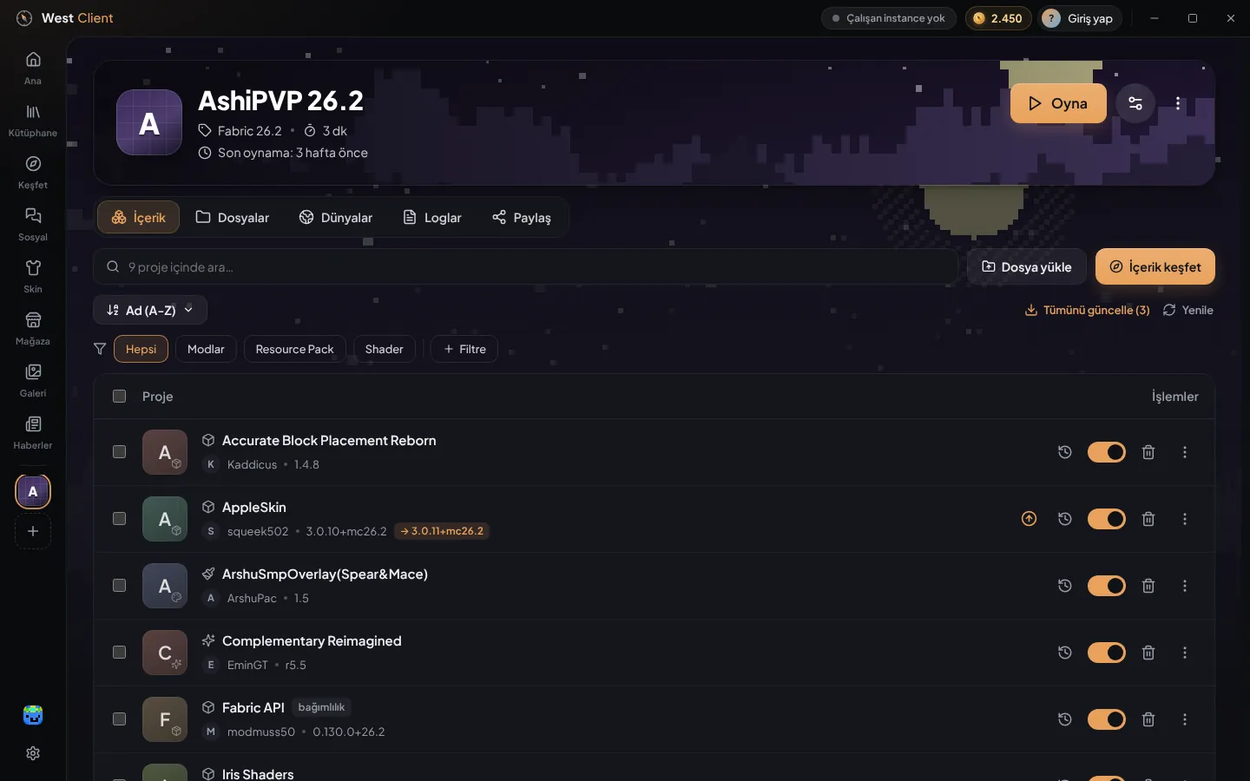
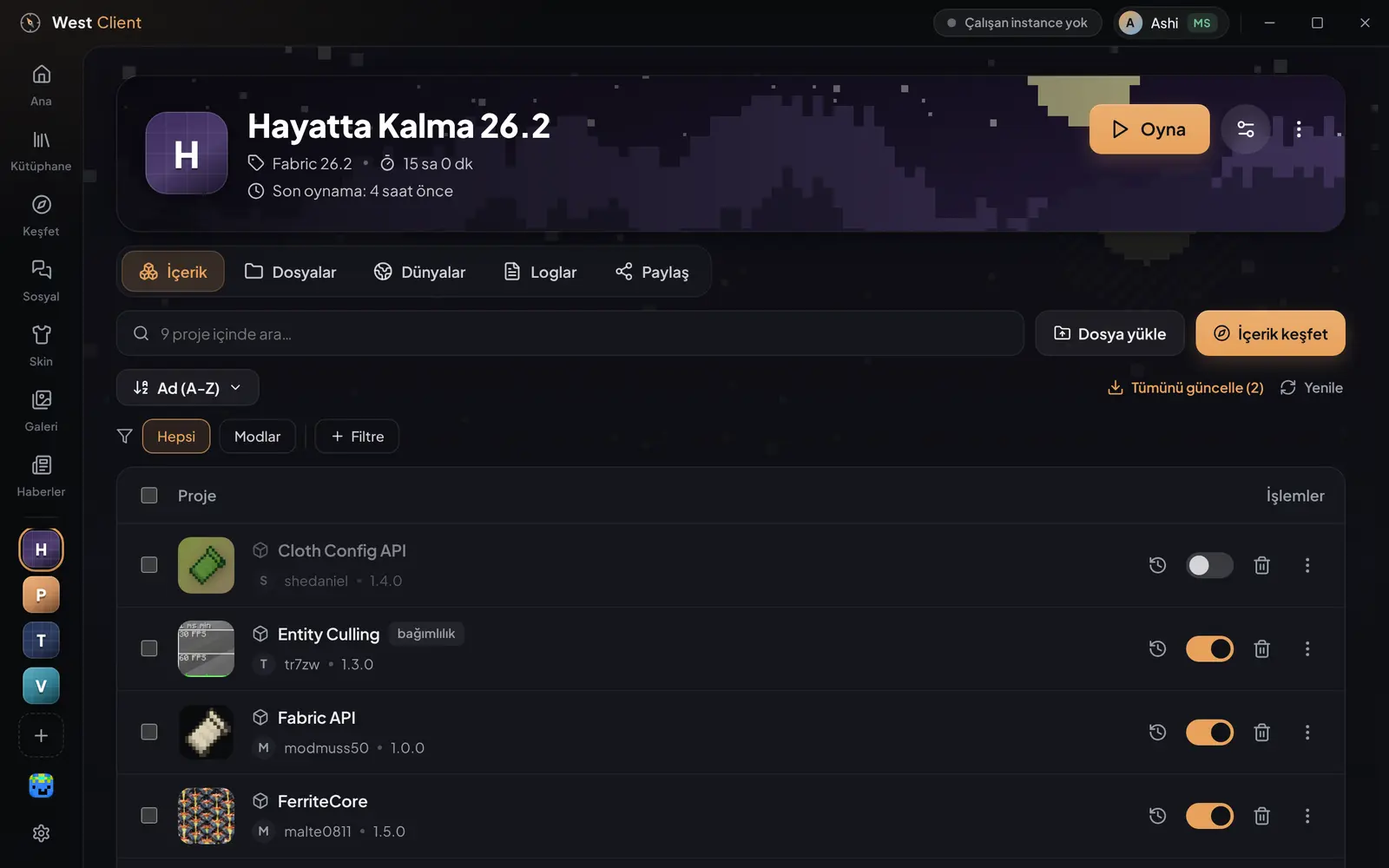
Site: gerçek özelliklerle yeniden yazıldı
- Kaldırılan özellikler (West Coin, mağaza, gardırop, lobi) ve eski ekran görüntüleri çıkarıldı
- Yeni bölümler: oyun içi Mod Merkezi, çökme koruması; güncel launcher ve oyun içi görüntüler
- Kalıp bölümler çıkarıldı: istatistik şeridi, 12 kartlık özellik ızgarası, canlı sayaç, uzun hikâye metni
- Mobilde yatay taşma düzeltildi; görüntüler tıklayınca büyür

Claude-Session: https://claude.ai/code/session_017BGwMHJgBU9zxtNajRruqT

diff --git a/site/index.html b/site/index.html
@@ -34,11 +34,10 @@
   <div class="wrap">
     <a class="brand" href="#top"><img src="assets/icon-256.png" alt=""> West <b>Client</b></a>
     <nav class="nav-links" id="navLinks">
-      <a href="#ozellikler">Özellikler</a>
+      <a href="#mod-merkezi">Mod Merkezi</a>
+      <a href="#kesfet">Keşfet</a>
       <a href="#ashi">Ashi</a>
-      <a href="#sosyal">Sosyal</a>
-      <a href="#ekranlar">Ekranlar</a>
-      <a href="#hikaye">Hikâye</a>
+      <a href="#ozellikler">Özellikler</a>
       <a href="#guncellemeler">Güncellemeler</a>
       <a href="#sss">SSS</a>
       <a href="https://github.com/ashistan5200-png/West-Launcher" target="_blank" rel="noopener">GitHub</a>
@@ -63,10 +62,10 @@
       <p class="lead">West Client; modlarını, paketlerini, dünyalarını ve arkadaşlarını tek, hızlı ve güzel bir yerde toplayan ücretsiz Minecraft launcher'ı. Çöken bir paketin suçlusunu bile senin yerine bulur.</p>
       <div class="hero-cta">
         <a class="btn btn-primary" id="heroDl" href="#indir"><svg width="20" height="20"><use href="#i-dl"/></svg> <span id="heroDlText">Ücretsiz indir</span></a>
-        <a class="btn btn-ghost" href="#ozellikler">Neler yapabilir? <svg width="18" height="18"><use href="#i-arrow"/></svg></a>
+        <a class="btn btn-ghost" href="#mod-merkezi">Neler yapabilir? <svg width="18" height="18"><use href="#i-arrow"/></svg></a>
       </div>
       <div class="hero-meta">
-        <span>✦ Tamamen ücretsiz</span><span>✦ Açık kaynak</span><span>✦ Windows · macOS · Linux</span><span>✦ Türkçe</span>
+        <span>Ücretsiz ve reklamsız</span><span>Açık kaynak</span><span>Windows · macOS · Linux</span><span>Türkçe, English, Deutsch</span>
       </div>
     </div>
     <div class="scroll-hint" aria-hidden="true"></div>
@@ -78,34 +77,35 @@
       <div class="glow-ring"></div>
       <img src="assets/shots/home.webp" alt="West Client ana sayfası" fetchpriority="high">
     </div>
-    <div class="stats">
-      <div class="stat reveal"><b data-count="100" data-suffix="%">0</b><span>ücretsiz, reklamsız</span></div>
-      <div class="stat reveal" style="--d:.08s"><b data-count="4">0</b><span>mod yükleyici</span></div>
-      <div class="stat reveal" style="--d:.16s"><b data-count="100" data-suffix="B+">0</b><span>Modrinth içeriği</span></div>
-      <div class="stat reveal" style="--d:.24s"><b data-count="3">0</b><span>işletim sistemi</span></div>
-    </div>
   </div>
 
-  <!-- ───────── Özellikler ───────── -->
-  <section class="section" id="ozellikler">
-    <div class="wrap center">
-      <span class="eyebrow reveal">Özellikler</span>
-      <h2 class="title reveal">İhtiyacın olan her şey. <span class="grad">Fazlası da.</span></h2>
-      <p class="sub reveal">Bir launcher'dan beklediğin her şeyi yapar; sonra çok daha fazlasını. Kurulumdan oyuna, moddan arkadaşlarına kadar.</p>
-      <div class="features" style="text-align:left">
-        <div class="feature reveal"><div class="ico"><svg width="26" height="26" viewBox="0 0 24 24" fill="none" stroke="currentColor" stroke-width="2" stroke-linecap="round" stroke-linejoin="round"><rect x="3" y="3" width="7" height="7" rx="1.5"/><rect x="14" y="3" width="7" height="7" rx="1.5"/><rect x="3" y="14" width="7" height="7" rx="1.5"/><rect x="14" y="14" width="7" height="7" rx="1.5"/></svg></div><h3>İzole instance'lar</h3><p>Her paket kendi klasöründe: Vanilla, Fabric, NeoForge, Forge ve Quilt. Klonla, şablon yap, kendi kapağını ve simgesini koy.</p></div>
-        <div class="feature reveal" style="--d:.06s"><div class="ico blue"><svg width="26" height="26" viewBox="0 0 24 24" fill="none" stroke="currentColor" stroke-width="2" stroke-linecap="round" stroke-linejoin="round"><circle cx="12" cy="12" r="10"/><path d="m16.2 7.8-2.1 6.3-6.3 2.1 2.1-6.3z"/></svg></div><h3>Keşfet: Modrinth</h3><p>On binlerce mod, modpack, shader ve resource pack. Sürüme, yükleyiciye, istemci/sunucuya ve kategoriye göre süz; galeriye ve sürüm notlarına bak.</p></div>
-        <div class="feature reveal" style="--d:.12s"><div class="ico pink"><svg width="26" height="26" viewBox="0 0 24 24" fill="none" stroke="currentColor" stroke-width="2" stroke-linecap="round" stroke-linejoin="round"><circle cx="11" cy="11" r="7"/><path d="m21 21-4.3-4.3M11 8v3l2 2"/></svg></div><h3>Ashi: suçlu avcısı</h3><p>Oyun çöküyor ama hangi mod? Ashi oyunu kendisi açıp kapatarak birkaç turda suçluyu bulur. Kütüphanelere dokunmaz.</p></div>
-        <div class="feature reveal"><div class="ico green"><svg width="26" height="26" viewBox="0 0 24 24" fill="none" stroke="currentColor" stroke-width="2" stroke-linecap="round" stroke-linejoin="round"><path d="M21 12a9 9 0 1 1-3-6.7L21 8"/><path d="M21 3v5h-5"/></svg></div><h3>Tek tıkla güncelle</h3><p>Yüklü modlarını Modrinth'te tanır, güncellemeleri gösterir. "Tümünü güncelle" eski dosyaları önce yedekler.</p></div>
-        <div class="feature reveal" style="--d:.06s"><div class="ico"><svg width="26" height="26" viewBox="0 0 24 24" fill="none" stroke="currentColor" stroke-width="2" stroke-linecap="round" stroke-linejoin="round"><path d="M17 21v-2a4 4 0 0 0-4-4H5a4 4 0 0 0-4 4v2"/><circle cx="9" cy="7" r="4"/><path d="M23 21v-2a4 4 0 0 0-3-3.87M16 3.13a4 4 0 0 1 0 7.75"/></svg></div><h3>West sosyal</h3><p>Gönderi, fotoğraf, anket, hikâye, mesaj, takip. Minecraft arkadaşlarınla West Client'ın içinde buluş.</p></div>
-        <div class="feature reveal" style="--d:.12s"><div class="ico blue"><svg width="26" height="26" viewBox="0 0 24 24" fill="none" stroke="currentColor" stroke-width="2" stroke-linecap="round" stroke-linejoin="round"><path d="M20.4 14.5 16 10 4 20"/><rect x="2" y="3" width="20" height="18" rx="3"/><circle cx="8.5" cy="8.5" r="1.5"/></svg></div><h3>Skin ve galeri</h3><p>3D skin önizleme, skin arşivi, hesabına tek tıkla uygulama. Ekran görüntülerini düzenle, kırp, paylaş.</p></div>
-        <div class="feature reveal"><div class="ico green"><svg width="26" height="26" viewBox="0 0 24 24" fill="none" stroke="currentColor" stroke-width="2" stroke-linecap="round" stroke-linejoin="round"><path d="M4 22h14a2 2 0 0 0 2-2V7.5L14.5 2H6a2 2 0 0 0-2 2v4"/><path d="M14 2v6h6M2 15h10M9 18l3-3-3-3"/></svg></div><h3>Her yerden aktar</h3><p>Modrinth App, CurseForge, Prism, MultiMC ve resmi launcher'daki paketlerini bulur, orijinallerine dokunmadan taşır.</p></div>
-        <div class="feature reveal" style="--d:.06s"><div class="ico"><svg width="26" height="26" viewBox="0 0 24 24" fill="none" stroke="currentColor" stroke-width="2" stroke-linecap="round" stroke-linejoin="round"><path d="M13 2 3 14h9l-1 8 10-12h-9l1-8z"/></svg></div><h3>Otomatik Java + JVM</h3><p>Doğru Java sürümünü kendisi indirir; belleği ve çöp toplayıcıyı donanımına ve mod sayına göre ayarlar.</p></div>
-        <div class="feature reveal" style="--d:.12s"><div class="ico pink"><svg width="26" height="26" viewBox="0 0 24 24" fill="none" stroke="currentColor" stroke-width="2" stroke-linecap="round" stroke-linejoin="round"><path d="M4 11a9 9 0 0 1 9 9M4 4a16 16 0 0 1 16 16"/><circle cx="5" cy="19" r="1"/></svg></div><h3>Haberler</h3><p>Minecraft sürüm notları, popüler mod güncellemeleri ve her sürümde gelen yeni blok dokuları ile sesleri; indirilebilir.</p></div>
-        <div class="feature reveal"><div class="ico blue"><svg width="26" height="26" viewBox="0 0 24 24" fill="none" stroke="currentColor" stroke-width="2" stroke-linecap="round" stroke-linejoin="round"><path d="M12 22s8-4 8-10V5l-8-3-8 3v7c0 6 8 10 8 10Z"/><path d="m9 12 2 2 4-4"/></svg></div><h3>Güvenli giriş</h3><p>Microsoft şifren yalnızca Microsoft'un kendi sayfasına girilir. İstersen launcher'ı şifreyle kilitle.</p></div>
-        <div class="feature reveal" style="--d:.06s"><div class="ico"><svg width="26" height="26" viewBox="0 0 24 24" fill="none" stroke="currentColor" stroke-width="2" stroke-linecap="round" stroke-linejoin="round"><path d="M21 15a2 2 0 0 1-2 2H7l-4 4V5a2 2 0 0 1 2-2h14a2 2 0 0 1 2 2z"/></svg></div><h3>Discord'da göster</h3><p>Arkadaşların hangi paketi, hangi sürümde ve ne kadar süredir oynadığını Discord profilinde görür.</p></div>
-        <div class="feature reveal" style="--d:.12s"><div class="ico green"><svg width="26" height="26" viewBox="0 0 24 24" fill="none" stroke="currentColor" stroke-width="2" stroke-linecap="round" stroke-linejoin="round"><path d="M3 12a9 9 0 0 1 15-6.7L21 8M21 3v5h-5M21 12a9 9 0 0 1-15 6.7L3 16M3 21v-5h5"/></svg></div><h3>Kendini günceller</h3><p>Yeni sürüm çıkınca haber verir, arka planda indirir, SHA-256 ile doğrular ve tek tıkla kurar.</p></div>
-      </div>
+  <!-- ───────── Mod Merkezi (oyun içi) ───────── -->
+  <section class="wrap spot" id="mod-merkezi">
+    <div class="spot-text reveal left">
+      <span class="eyebrow">Oyun içi Mod Merkezi · H</span>
+      <h2 class="title">Modları oyundan çıkmadan değiştir.</h2>
+      <p class="sub">Oyundayken H'ye bas: kurulu modları, kaynak paketlerini ve shader'ları aç-kapat, sil, güncelle; Modrinth'ten yenisini kur. Kaynak paketi, shader ve veri paketi anında uygulanır.</p>
+      <ul class="spot-list">
+        <li>Mod değişince oyun kapanmaz: yeni düzen arka planda açılır, hazır olunca aynı dünyaya ya da sunucuya geçersin</li>
+        <li>Yeni düzen çökerse oyunun açık kalır; değişiklik "açılamadı" diye işaretlenir ve suçlu mod adıyla gösterilir</li>
+        <li>Bir modu kapatınca ona bağlı olanları, açınca gerekenleri sorar</li>
+        <li>Her değişiklik geri alınabilir; .jar ve .zip dosyalarını pencereye sürükleyip bırakabilirsin</li>
+      </ul>
+    </div>
+    <div class="spot-img reveal right">
+      <div class="frame"><img src="assets/shots/hub.webp" alt="Mod Merkezi: kurulu içerik" loading="lazy"></div>
+      <div class="frame small"><img src="assets/shots/handoff.webp" alt="Değişiklikleri oyunu kapatmadan uygulama" loading="lazy"></div>
+    </div>
+  </section>
+
+  <section class="wrap spot flip blue">
+    <div class="spot-text reveal right">
+      <span class="eyebrow">Çökme koruması</span>
+      <h2 class="title">Bozuk bir mod oyununu bozmaz.</h2>
+      <p class="sub">Yeni mod düzeni açılamazsa West Client hangi modun sorun çıkardığını söyler, o modu kendiliğinden kapatır ve oyununu olduğu gibi bırakır. Oyunu kapatıp açsan da çökmez; karar senindir: geri al ya da tekrar dene.</p>
+    </div>
+    <div class="spot-img reveal left">
+      <div class="frame"><img src="assets/shots/protect.webp" alt="Açılamayan değişiklik ve sebebi" loading="lazy"></div>
     </div>
   </section>
 
@@ -114,7 +114,7 @@
     <div class="spot-text reveal left">
       <span class="eyebrow">Keşfet</span>
       <h2 class="title">Aradığın mod bir tık uzakta.</h2>
-      <p class="sub">Modrinth'teki içeriğin tamamı West Client'ın içinde. Bir moda tıkla; ne işe yaradığını, ekran görüntülerini ve her sürümde neyin değiştiğini oku.</p>
+      <p class="sub">Modrinth'teki içeriğin tamamı West Client'ın içinde; launcher'da da, oyunun içinde de. Bir moda tıkla; ne işe yaradığını, ekran görüntülerini ve her sürümde neyin değiştiğini oku.</p>
       <ul class="spot-list">
         <li>Minecraft sürümü, yükleyici ve kategoriye göre süzme</li>
         <li>"Yalnız istemci", "Yalnız sunucu", "İkisinde de" ayrımı</li>
@@ -125,7 +125,7 @@
     </div>
     <div class="spot-img reveal right">
       <div class="frame"><img src="assets/shots/browse.webp" alt="Keşfet sayfası" loading="lazy"></div>
-      <div class="frame small"><img src="assets/shots/gallery.webp" alt="Mod galerisi" loading="lazy"></div>
+      <div class="frame small"><img src="assets/shots/hub-browse.webp" alt="Oyun içinden Modrinth araması" loading="lazy"></div>
     </div>
   </section>
 
@@ -174,8 +174,8 @@
   </section>
 
   <!-- ───────── Sosyal ───────── -->
-  <section class="wrap spot flip" id="sosyal">
-    <div class="spot-text reveal right">
+  <section class="wrap spot solo" id="sosyal">
+    <div class="spot-text reveal">
       <span class="eyebrow">West sosyal</span>
       <h2 class="title">Arkadaşların da burada.</h2>
       <p class="sub">West hesabınla bir profil oluştur, gönderi paylaş, hikâye at, mesajlaş. Launcher'dan çıkmadan Minecraft topluluğuyla bağlantıda kal.</p>
@@ -187,65 +187,22 @@
         <li>Gizli hesap, engelleme, sessize alma ve şikâyet</li>
       </ul>
     </div>
-    <div class="spot-img reveal left">
-      <div class="frame"><img src="assets/shots/social.webp" alt="West sosyal akış" loading="lazy"></div>
-      <div class="frame small"><img src="assets/shots/messages.webp" alt="Mesajlar" loading="lazy"></div>
-    </div>
   </section>
 
-  <!-- ───────── Canlı topluluk (Supabase) ───────── -->
-  <section class="section" id="topluluk" hidden style="padding-bottom:40px">
-    <div class="wrap center">
-      <span class="eyebrow reveal"><span class="live-dot"></span>Canlı</span>
-      <h2 class="title reveal">West topluluğu büyüyor.</h2>
-      <div class="community">
-        <div class="stat reveal"><b id="cUsers">0</b><span>West hesabı</span></div>
-        <div class="stat reveal" style="--d:.08s"><b id="cPosts">0</b><span>paylaşılan gönderi</span></div>
-        <div class="stat reveal" style="--d:.16s"><b id="cToday">0</b><span>son 24 saatteki gönderi</span></div>
-      </div>
-      <div class="tags" id="cTags"></div>
-    </div>
-  </section>
-
-  <!-- ───────── Ekranlar ───────── -->
-  <section class="section" id="ekranlar">
-    <div class="wrap center">
-      <span class="eyebrow reveal">Ekranlar</span>
-      <h2 class="title reveal">Göz atmak bedava.</h2>
-      <p class="sub reveal">Derin gece zemini, West gün batımı amberi ve her instance'a özel piksel manzaralar. İstersen vurgu rengini kendin seç.</p>
-      <div class="gallery-tabs reveal" id="gTabs"></div>
-      <div class="gallery-stage reveal zoom" id="gStage"></div>
-      <div class="gallery-cap" id="gCap"></div>
-    </div>
-  </section>
-
-  <!-- ───────── Uzun anlatım ───────── -->
-  <section class="section" id="hikaye" style="padding-top:40px">
+  <!-- ───────── Diğer özellikler ───────── -->
+  <section class="section" id="ozellikler" style="padding-top:40px">
     <div class="wrap">
-      <div class="center"><span class="eyebrow reveal">West Client'ın hikâyesi</span><h2 class="title reveal">Neden bir launcher daha?</h2></div>
-      <article class="story">
-        <p class="reveal">Minecraft'ı modlarla oynayan herkes aynı döngüyü bilir: bir launcher'da paketini kurarsın, başka bir sitede mod ararsın, bir klasöre jar dosyası atarsın, oyun açılmaz, bir forumda hata kodunu ararsın, saatler sonra hangi modun suçlu olduğunu bulursun. <strong>West Client bu döngüyü kırmak için yapıldı.</strong> Amacı basit: Minecraft'ın oyun dışındaki bütün işini tek, hızlı ve güzel bir yere toplamak ki sen yalnızca oynamaya odaklan.</p>
-
-        <h3 class="reveal">Rotanı sen belirle</h3>
-        <p class="reveal">Adındaki “West” ve logosundaki pusula tesadüf değil. West Client sana bir yol dayatmaz; vanilla bir survival'dan 300 modlu bir teknoloji paketine kadar her rota için doğru araçları önüne koyar. Her paket kendi izole klasöründe yaşar; birinin modları ötekini bozmaz. Fabric, NeoForge, Forge ve Quilt'i kendisi kurar; doğru Java sürümünü kendisi indirir; belleği ve çöp toplayıcıyı bilgisayarına ve mod sayına göre kendisi ayarlar.</p>
-
-        <h3 class="reveal">Mod bulmak artık bir arama kadar kolay</h3>
-        <p class="reveal">Keşfet sayfası Modrinth'teki on binlerce içeriği launcher'ın içine getirir. Bir modun yalnızca istemcide mi çalıştığını, sunucuya da kurulması gerekip gerekmediğini, hangi sürümleri desteklediğini tek bakışta görürsün. Bir moda tıkladığında tam açıklamasını, ekran görüntülerini ve her güncellemede neyin değiştiğini okursun. “Ekle” dediğinde West Client gereken bağımlılıkları da kendiliğinden kurar; uyumsuz bir instance'a kurmana zaten izin vermez ve nedenini söyler.</p>
-
-        <div class="quote reveal">“Oyun çöktü” ile “suçlu bu mod” arasındaki saatleri, Ashi birkaç dakikaya indirir.</div>
-
-        <h3 class="reveal">Ashi: maskottan fazlası</h3>
-        <p class="reveal">West Client'ın maskotu Ashi, ilk açılışta seni karşılayan, kurulumu birlikte yapan ve launcher'ı sana gezdiren piksel bir kaşif. Ama asıl yeteneği, çöken bir paketin suçlusunu bulmak. Ashi modlarını gruplara ayırır, oyunu kendisi açıp kapatır ve her turda şüphelileri yarıya indirir. Her çökmenin parmak izini aldığı için, bir modu kapattığında ona gizlice bağlı başka bir modun çıkardığı farklı hatayı asıl hatayla karıştırmaz. Fabric API ya da Kotlin gibi kütüphaneleri asla tek başına kapatmaz. İş bittiğinde bütün modlarını eski haline getirir ve sonucu sade bir dille anlatır.</p>
-
-        <h3 class="reveal">Oyunun dışında da bir topluluk</h3>
-        <p class="reveal">West sosyal, launcher'ın içinde yaşayan bir sosyal ağ. Bir West hesabıyla profilini oluşturur, kurduğun dev üssün fotoğrafını paylaşır, “hangi yükleyiciyi kullanıyorsunuz?” diye anket açar, arkadaşına mesaj atar, gün içinde hikâye paylaşırsın. Gizli hesap, engelleme ve şikâyet gibi araçlar en başından içinde; çünkü güvenli bir topluluk sonradan eklenecek bir özellik değil.</p>
-
-        <h3 class="reveal">Gizliliğin ve güvenliğin önce gelir</h3>
-        <p class="reveal">Microsoft şifren yalnızca Microsoft'un kendi giriş sayfasına girilir; West Client onu görmez ve saklamaz. Oturum bilgileri bilgisayarında, arayüze hiç gönderilmeden tutulur. İstersen launcher'ı bir şifreyle kilitleyebilirsin; şifren geri çözülemeyen bir özet olarak saklanır. Kendini güncellediğinde indirdiği dosyayı kurmadan önce SHA-256 ile doğrular. Kodun tamamı GitHub'da açıktır ve her sürüm GitHub'ın kendi sunucularında otomatik derlenir.</p>
-
-        <h3 class="reveal">Ücretsiz. Gerçekten.</h3>
-        <p class="reveal">West Client'ın ücretli bir sürümü, reklamı ya da gizli aboneliği yok. Ashi'nin yapay zekâ sohbeti bile varsayılan olarak bilgisayarında çalışan ücretsiz bir modelle (Ollama) çalışır; kimsenin hesabından para gitmez. West Client gönüllü olarak geliştirilen, topluluğu için yapılmış bir proje.</p>
-      </article>
+      <div class="center"><span class="eyebrow reveal">Ve geri kalan her şey</span><h2 class="title reveal">Bir launcher'dan beklediklerin.</h2></div>
+      <dl class="facts reveal">
+        <div><dt>İzole instance'lar</dt><dd>Vanilla, Fabric, Quilt, Forge ve NeoForge; her paket kendi klasöründe. Klonla, şablon yap, kapak ve simge koy.</dd></div>
+        <div><dt>Her yerden aktar</dt><dd>Modrinth App, CurseForge, Prism, MultiMC ve resmi launcher'daki paketleri orijinaline dokunmadan taşır.</dd></div>
+        <div><dt>Java ve bellek kendiliğinden</dt><dd>Doğru Java'yı indirir; belleği ve JVM ayarlarını donanımına ve mod sayına göre seçer.</dd></div>
+        <div><dt>Hızlı yeniden başlatma</dt><dd>Mod değişikliğinden sonra oyun, doğrulama ve indirmeyi tekrarlamadan saniyeler içinde yeniden açılır.</dd></div>
+        <div><dt>Skin ve galeri</dt><dd>Skin düzenleyici ve 3D önizleme; ekran görüntülerini kırp, düzenle, paylaş.</dd></div>
+        <div><dt>Güvenli giriş</dt><dd>Microsoft şifren yalnızca Microsoft'un sayfasına girilir. İstersen launcher'ı şifreyle kilitle.</dd></div>
+        <div><dt>Discord ve haberler</dt><dd>Ne oynadığın Discord profilinde görünür; Minecraft ve mod güncellemeleri tek sayfada.</dd></div>
+        <div><dt>Kendini günceller</dt><dd>Yeni sürümü haber verir, indirir, SHA-256 ile doğrular ve tek tıkla kurar.</dd></div>
+      </dl>
     </div>
   </section>
 

diff --git a/site/app.js b/site/app.js
@@ -115,26 +115,9 @@
       if (!e.isIntersecting) continue;
       e.target.classList.add("in");
       io.unobserve(e.target);
-      $$("[data-count]", e.target).forEach(count);
     }
   }, { threshold: 0.12, rootMargin: "0px 0px -40px 0px" });
   $$(".reveal").forEach((el) => io.observe(el));
-  function count(el) {
-    const end = +el.dataset.count, suf = el.dataset.suffix || "", start = performance.now(), dur = 1400;
-    const step = (now) => {
-      const k = Math.min(1, (now - start) / dur), e = 1 - Math.pow(1 - k, 3);
-      el.textContent = (suf === "%" ? "%" : "") + Math.round(end * e) + (suf === "%" ? "" : suf);
-      if (k < 1) requestAnimationFrame(step);
-    };
-    requestAnimationFrame(step);
-  }
-
-  // ───────── Özellik kartlarında ışık takibi ─────────
-  $$(".feature").forEach((f) => f.addEventListener("pointermove", (e) => {
-    const b = f.getBoundingClientRect();
-    f.style.setProperty("--mx", `${e.clientX - b.left}px`);
-    f.style.setProperty("--my", `${e.clientY - b.top}px`);
-  }));
 
   // ───────── Ashi'nin avı (canlandırma) ─────────
   const modsEl = $("#mods"), huntText = $("#huntText"), bar = $("#huntBar");
@@ -183,44 +166,9 @@
   }
   new IntersectionObserver(([e]) => { if (e.isIntersecting) hunt(); }, { threshold: 0.3 }).observe($("#hunt"));
 
-  // ───────── Ekran görüntüleri ─────────
-  const SHOTS = [
-    ["home", "Ana sayfa", "Kaldığın yerden devam et; son oynananlar ve Minecraft haberleri."],
-    ["library", "Kütüphane", "Her paketin kendi piksel manzarası ve kapağı."],
-    ["ingame", "Oyun içi ana menü", "Minecraft'ın içinde West ana menüsü: hızlı oyna, dünyalar, sosyal ve gardırop."],
-    ["shop", "West Coin mağazası", "Oynadıkça coin kazan; pelerin, kanat, şapka, tema ve West Plus al."],
-    ["wardrobe", "Gardırop", "Aksesuarlarını oyunun içinde tak, çıkar, dönen karakterinde gör."],
-    ["solver", "Ashi Çözücü", "Çökme raporunu okur, suçlu modu bulur, gerekirse modu kendisi onarır."],
-    ["invite", "Dünya davetleri", "Arkadaşının davetine tıkla, uygun instance'ı seç, doğrudan dünyasına gir."],
-    ["instance", "Instance", "Modlar tek tabloda: güncelle, aç-kapat, kaldır."],
-    ["browse", "Keşfet", "Sürüm, yükleyici, istemci/sunucu ve kategoriye göre süzme."],
-    ["gallery", "Mod galerisi", "Bir moda tıkla; ekran görüntüleri ve açıklaması."],
-    ["versions", "Sürüm notları", "Her güncellemede neyin değiştiği."],
-    ["social", "West sosyal", "Akış, anketler, gündem ve takip önerileri."],
-    ["profile", "Profil", "Biyografi, bağlantılar ve gönderiler."],
-    ["messages", "Mesajlar", "Arkadaşlarınla birebir sohbet."],
-    ["story", "Hikâyeler", "24 saatlik hikâyeler."],
-  ];
-  const tabs = $("#gTabs"), stage = $("#gStage"), cap = $("#gCap");
-  const imgs = SHOTS.map(([f, t]) => {
-    const im = new Image(); im.src = `assets/shots/${f}.webp`; im.alt = t; im.loading = "lazy"; stage.appendChild(im); return im;
-  });
-  let cur = 0, timer;
-  const show = (i) => {
-    cur = (i + SHOTS.length) % SHOTS.length;
-    imgs.forEach((im, j) => im.classList.toggle("on", j === cur));
-    $$("button", tabs).forEach((b, j) => b.classList.toggle("on", j === cur));
-    cap.innerHTML = `<b>${SHOTS[cur][1]}</b>${SHOTS[cur][2]}`;
-  };
-  SHOTS.forEach(([, t], i) => {
-    const b = document.createElement("button"); b.textContent = t;
-    b.onclick = () => { show(i); clearInterval(timer); };
-    tabs.appendChild(b);
-  });
-  show(0);
-  if (!reduce) timer = setInterval(() => show(cur + 1), 4500);
+  // ───────── Ekran görüntüsünü büyüt ─────────
   const lb = $("#lightbox");
-  stage.onclick = () => { $("img", lb).src = imgs[cur].src; lb.classList.add("on"); };
+  $$(".frame img, .window img").forEach((im) => (im.onclick = () => { $("img", lb).src = im.src; $("img", lb).alt = im.alt; lb.classList.add("on"); }));
   lb.onclick = () => lb.classList.remove("on");
   addEventListener("keydown", (e) => { if (e.key === "Escape") lb.classList.remove("on"); });
 
@@ -287,25 +235,4 @@
       $("#timeline").innerHTML = `<p class="muted center">Güncelleme notları şu an yüklenemedi. <a class="amber" href="https://github.com/${REPO}/releases" target="_blank" rel="noopener">GitHub'da gör →</a></p>`;
     });
 
-  // ───────── Canlı topluluk (yalnızca toplam sayılar ve gündem etiketleri) ─────────
-  const sbCount = async (path) => {
-    const resp = await fetch(`${SB}/rest/v1/${path}`, { headers: { apikey: SBKEY, Prefer: "count=exact", Range: "0-0" } });
-    if (!resp.ok) throw new Error(String(resp.status));
-    return +(resp.headers.get("content-range") || "").split("/")[1] || 0;
-  };
-  const setCount = (el, n) => { el.dataset.count = String(n); el.textContent = "0"; };
-  Promise.all([
-    sbCount("profiles?select=id"),
-    sbCount("posts?select=id&repost_of=is.null"),
-    sbCount(`posts?select=id&created_at=gt.${new Date(Date.now() - 86400e3).toISOString()}`),
-  ]).then(([users, posts, today]) => {
-    if (users < 1) return; // henüz kimse yoksa bölümü gösterme
-    setCount($("#cUsers"), users); setCount($("#cPosts"), posts); setCount($("#cToday"), today);
-    const sec = $("#topluluk");
-    sec.hidden = false;
-    $$(".reveal", sec).forEach((el) => io.observe(el));
-    return fetch(`${SB}/rest/v1/rpc/trending_tags`, { method: "POST", headers: { apikey: SBKEY, "Content-Type": "application/json" }, body: JSON.stringify({ p_limit: 12 }) })
-      .then((resp) => (resp.ok ? resp.json() : []))
-      .then((tags) => { $("#cTags").innerHTML = tags.map((t, i) => `<span style="animation-delay:${i * 0.05}s">#${esc(t.tag)}</span>`).join(""); });
-  }).catch(() => {});
 })();

diff --git a/site/styles.css b/site/styles.css
@@ -298,3 +298,21 @@ main, footer { position: relative; z-index: 1; }
 .live-dot { display: inline-block; width: 8px; height: 8px; border-radius: 4px; background: var(--green); box-shadow: 0 0 0 0 rgb(112 196 142 / .6); animation: live 1.8s infinite; margin-right: 6px; vertical-align: 1px; }
 @keyframes live { 70% { box-shadow: 0 0 0 10px rgb(112 196 142 / 0); } 100% { box-shadow: 0 0 0 0 rgb(112 196 142 / 0); } }
 @media (max-width: 700px) { .community { grid-template-columns: 1fr; } }
+
+/* Tek sütunlu metin bölümü (görselsiz) */
+.spot.solo { grid-template-columns: 1fr; max-width: 760px; }
+/* Diğer özellikler: kart ızgarası yerine sade tanım listesi */
+.facts { display: grid; grid-template-columns: repeat(2, minmax(0, 1fr)); gap: 0 48px; margin: 48px auto 0; max-width: 980px; }
+.facts > div { padding: 20px 0; border-top: 1px solid var(--line); }
+.facts dt { font-weight: 700; font-size: 17px; margin-bottom: 6px; }
+.facts dd { margin: 0; color: var(--muted); line-height: 1.6; }
+@media (max-width: 760px) { .facts { grid-template-columns: 1fr; } }
+.frame img, .window img { cursor: zoom-in; }
+/* Sürüm notu başlıkları dar ekranda taşmasın: başlık kısalır, tarih alta iner */
+.rel-head h3 { min-width: 0; overflow-wrap: anywhere; }
+@media (max-width: 600px) {
+  .rel { padding-left: 34px; }
+  .rel-head { flex-wrap: wrap; padding: 14px 16px; gap: 6px 10px; }
+  .rel-head h3 { flex-basis: calc(100% - 40px); font-size: 17px; }
+  .rel-date { order: 3; }
+}
